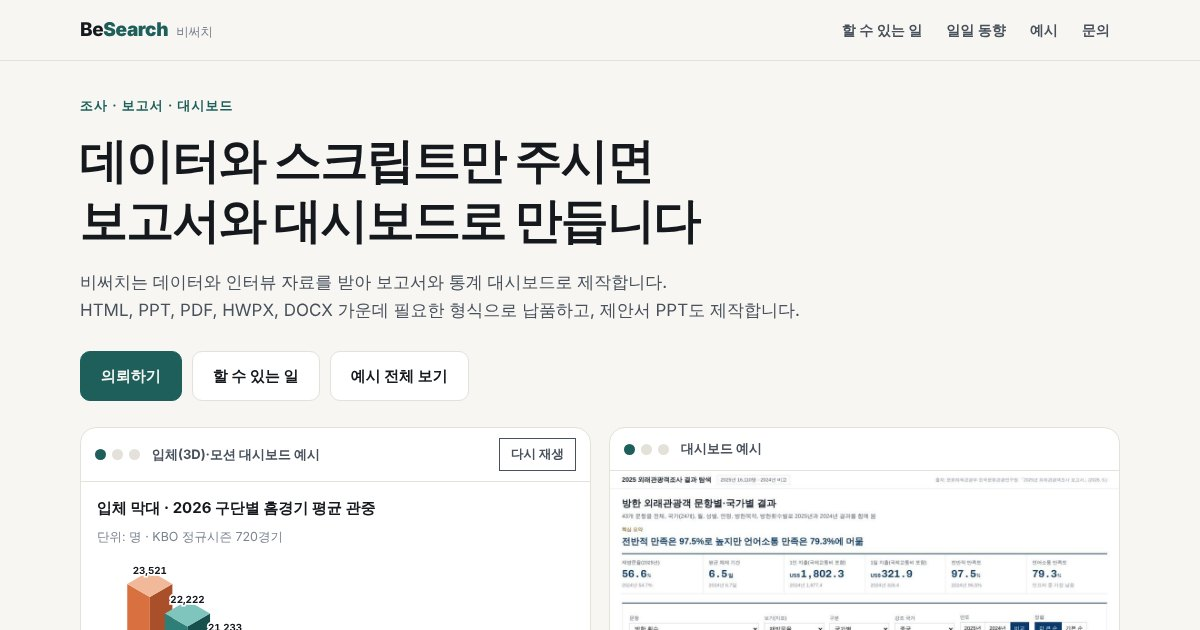
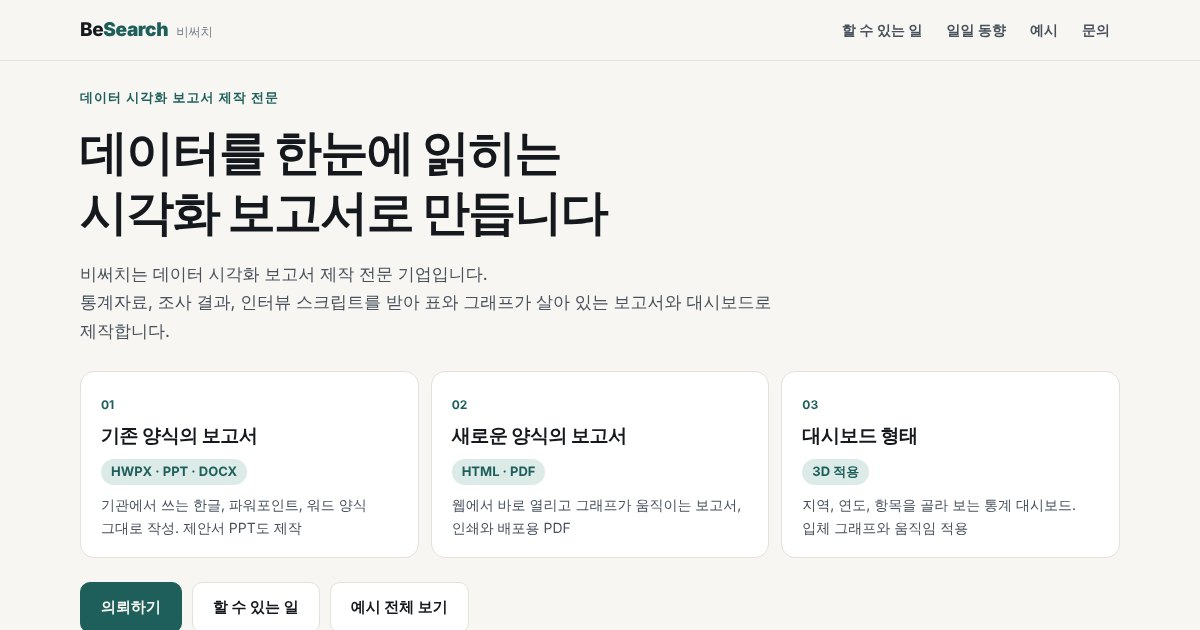
데이터 시각화 보고서 제작 전문으로 소개 개편(첫 화면, 회사 소개, 공유 미리보기)
Claude-Session: https://claude.ai/code/session_01KSbG1FWzM5tJqa3JmCj8ps

diff --git a/index.html b/index.html
@@ -3,12 +3,12 @@
 <head>
 <meta charset="UTF-8">
 <meta name="viewport" content="width=device-width,initial-scale=1">
-<title>비써치 BeSearch | 조사·데이터 분석</title>
-<meta name="description" content="데이터와 인터뷰 스크립트를 받아 보고서와 통계 대시보드로 제작합니다. HTML, PPT, PDF, HWPX, DOCX 납품, 제안서 PPT 제작.">
+<title>비써치 BeSearch | 데이터 시각화 보고서 제작</title>
+<meta name="description" content="데이터 시각화 보고서 제작 전문 기업. 기존 양식 보고서(HWPX·PPT), 새로운 양식 보고서(HTML·PDF), 3D 대시보드를 제작합니다.">
 <meta property="og:type" content="website">
 <meta property="og:site_name" content="비써치 BeSearch">
-<meta property="og:title" content="비써치 BeSearch | 데이터와 스크립트를 보고서와 대시보드로">
-<meta property="og:description" content="데이터와 인터뷰 스크립트를 받아 보고서와 통계 대시보드로 제작합니다.">
+<meta property="og:title" content="비써치 BeSearch | 데이터 시각화 보고서 제작 전문">
+<meta property="og:description" content="기존 양식 보고서(HWPX·PPT), 새로운 양식 보고서(HTML·PDF), 3D 대시보드를 제작합니다.">
 <meta property="og:url" content="https://besearch.co.kr/">
 <meta property="og:image" content="https://besearch.co.kr/img/og.jpg">
 <meta property="og:image:width" content="1200">
@@ -107,7 +107,7 @@ th:first-child,td:first-child{text-align:left}
 .two{display:grid;grid-template-columns:1fr 1fr;gap:16px}
 .two .proj{margin:0}
 
-.info{display:grid;grid-template-columns:120px 1fr;gap:8px 16px;font-size:15px;max-width:640px}
+.info{display:grid;grid-template-columns:150px 1fr;gap:8px 16px;font-size:15px;max-width:640px}
 .info dt{color:var(--muted);font-weight:600}
 footer{border-top:1px solid var(--line);padding:26px 0 40px;font-size:13px;color:var(--muted)}
 .gal{display:grid;grid-template-columns:repeat(3,1fr);gap:14px}
@@ -153,6 +153,12 @@ a.gc:hover{border-color:var(--acc)}
 
 .hero{padding:56px 20px 44px}
 .hero h1{font-size:clamp(30px,4.8vw,48px)}
+.pil{display:grid;grid-template-columns:repeat(3,1fr);gap:12px;margin-top:26px}
+.pil div{background:var(--card);border:1px solid var(--line);border-radius:14px;padding:18px 20px}
+.pil span{font-size:12px;font-weight:700;color:var(--acc)}
+.pil b{display:block;font-size:19px;font-weight:800;letter-spacing:-.02em;margin-top:4px}
+.pil em{display:inline-block;font-style:normal;font-size:13px;font-weight:700;color:var(--acc);background:var(--acc-s);border-radius:999px;padding:2px 10px;margin:8px 0 8px}
+.pil p{font-size:14px;color:var(--ink2);max-width:none}
 .show{display:grid;grid-template-columns:1fr 1fr;gap:18px;margin-top:40px}
 .frame{background:var(--card);border:1px solid var(--line);border-radius:16px;overflow:hidden;display:flex;flex-direction:column}
 .frame .bar{display:flex;align-items:center;gap:6px;padding:10px 14px;border-bottom:1px solid var(--line);font-size:13px;font-weight:700;color:var(--ink2)}
@@ -199,7 +205,7 @@ a.shot:hover{border-color:var(--acc)}
 .cta .btn.p{background:var(--bg);color:var(--acc)}
 .cta .btn.g{background:transparent;color:var(--bg);border-color:color-mix(in srgb,var(--bg) 55%,transparent)}
 @media (max-width:820px){
-  .show,.cap-row{grid-template-columns:1fr}
+  .show,.cap-row,.pil{grid-template-columns:1fr}
   .pj3{grid-template-columns:1fr}
   .cap-row.rev .tx{order:0}
   .cap-row{gap:18px;padding:26px 0}
@@ -247,10 +253,15 @@ a.shot:hover{border-color:var(--acc)}
 
 <main id="top">
 <div class="in hero">
-  <div class="eyebrow">조사 · 보고서 · 대시보드</div>
-  <h1>데이터와 스크립트만 주시면<br>보고서와 대시보드로 만듭니다</h1>
-  <p>비써치는 데이터와 인터뷰 자료를 받아 보고서와 통계 대시보드로 제작합니다.<br>HTML, PPT, PDF, HWPX, DOCX 가운데 필요한 형식으로 납품하고, 제안서 PPT도 제작합니다.</p>
-  <div style="display:flex;gap:10px;flex-wrap:wrap;margin-top:26px"><a class="btn p" href="contact.html">의뢰하기</a><a class="btn" href="#can">할 수 있는 일</a><a class="btn" href="examples.html">예시 전체 보기</a></div>
+  <div class="eyebrow">데이터 시각화 보고서 제작 전문</div>
+  <h1>데이터를 한눈에 읽히는<br>시각화 보고서로 만듭니다</h1>
+  <p>비써치는 데이터 시각화 보고서 제작 전문 기업입니다.<br>통계자료, 조사 결과, 인터뷰 스크립트를 받아 표와 그래프가 살아 있는 보고서와 대시보드로 제작합니다.</p>
+  <div class="pil">
+    <div><span>01</span><b>기존 양식의 보고서</b><em>HWPX · PPT · DOCX</em><p>기관에서 쓰는 한글, 파워포인트, 워드 양식 그대로 작성. 제안서 PPT도 제작</p></div>
+    <div><span>02</span><b>새로운 양식의 보고서</b><em>HTML · PDF</em><p>웹에서 바로 열리고 그래프가 움직이는 보고서, 인쇄와 배포용 PDF</p></div>
+    <div><span>03</span><b>대시보드 형태</b><em>3D 적용</em><p>지역, 연도, 항목을 골라 보는 통계 대시보드. 입체 그래프와 움직임 적용</p></div>
+  </div>
+  <div style="display:flex;gap:10px;flex-wrap:wrap;margin-top:24px"><a class="btn p" href="contact.html">의뢰하기</a><a class="btn" href="#can">할 수 있는 일</a><a class="btn" href="examples.html">예시 전체 보기</a></div>
   <div class="show">
     <div class="frame" id="carL" data-car>
       <div class="bar"><button type="button" class="dot on" data-i="0" aria-label="입체 막대 예시"></button><button type="button" class="dot" data-i="1" aria-label="지도 예시"></button><button type="button" class="dot" data-i="2" aria-label="히트맵 예시"></button><span class="ttl">입체(3D)·모션 대시보드 예시</span><button class="replay" type="button" id="isoRe" hidden>다시 재생</button></div>
@@ -417,8 +428,12 @@ a.shot:hover{border-color:var(--acc)}
 </div></section>
 
 <section id="company"><div class="in">
-  <h2>회사 정보</h2>
-  <dl class="info" style="margin-top:14px"><dt>상호</dt><dd>비써치(BeSearch)</dd><dt>업종</dt><dd>시장조사 및 여론조사업, 전자상거래 소매업, 기타 인문 및 사회과학 연구개발업</dd></dl>
+  <h2>회사 소개</h2>
+  <p class="sub" style="max-width:760px">비써치(BeSearch)는 데이터 시각화 보고서 제작 전문 기업입니다. 통계자료와 조사 결과를 표와 그래프가 살아 있는 보고서, 대시보드로 만듭니다.</p>
+  <dl class="info" style="margin-top:14px;max-width:760px">
+    <dt>기존 양식 보고서</dt><dd>HWPX, PPT, DOCX 등 기관에서 쓰는 양식 그대로 작성 (제안서 PPT 포함)</dd>
+    <dt>새로운 양식 보고서</dt><dd>HTML, PDF 등 웹에서 바로 열리는 시각화 보고서</dd>
+    <dt>대시보드</dt><dd>통계 대시보드 제작, 입체(3D) 그래프와 움직임 적용</dd><dt>상호</dt><dd>비써치(BeSearch)</dd><dt>업종</dt><dd>시장조사 및 여론조사업, 전자상거래 소매업, 기타 인문 및 사회과학 연구개발업</dd></dl>
 </div></section>
 </main>
 

diff --git a/template.html b/template.html
@@ -3,12 +3,12 @@
 <head>
 <meta charset="UTF-8">
 <meta name="viewport" content="width=device-width,initial-scale=1">
-<title>비써치 BeSearch | 조사·데이터 분석</title>
-<meta name="description" content="데이터와 인터뷰 스크립트를 받아 보고서와 통계 대시보드로 제작합니다. HTML, PPT, PDF, HWPX, DOCX 납품, 제안서 PPT 제작.">
+<title>비써치 BeSearch | 데이터 시각화 보고서 제작</title>
+<meta name="description" content="데이터 시각화 보고서 제작 전문 기업. 기존 양식 보고서(HWPX·PPT), 새로운 양식 보고서(HTML·PDF), 3D 대시보드를 제작합니다.">
 <meta property="og:type" content="website">
 <meta property="og:site_name" content="비써치 BeSearch">
-<meta property="og:title" content="비써치 BeSearch | 데이터와 스크립트를 보고서와 대시보드로">
-<meta property="og:description" content="데이터와 인터뷰 스크립트를 받아 보고서와 통계 대시보드로 제작합니다.">
+<meta property="og:title" content="비써치 BeSearch | 데이터 시각화 보고서 제작 전문">
+<meta property="og:description" content="기존 양식 보고서(HWPX·PPT), 새로운 양식 보고서(HTML·PDF), 3D 대시보드를 제작합니다.">
 <meta property="og:url" content="https://besearch.co.kr/">
 <meta property="og:image" content="https://besearch.co.kr/img/og.jpg">
 <meta property="og:image:width" content="1200">
@@ -107,7 +107,7 @@ th:first-child,td:first-child{text-align:left}
 .two{display:grid;grid-template-columns:1fr 1fr;gap:16px}
 .two .proj{margin:0}
 
-.info{display:grid;grid-template-columns:120px 1fr;gap:8px 16px;font-size:15px;max-width:640px}
+.info{display:grid;grid-template-columns:150px 1fr;gap:8px 16px;font-size:15px;max-width:640px}
 .info dt{color:var(--muted);font-weight:600}
 footer{border-top:1px solid var(--line);padding:26px 0 40px;font-size:13px;color:var(--muted)}
 .gal{display:grid;grid-template-columns:repeat(3,1fr);gap:14px}
@@ -153,6 +153,12 @@ a.gc:hover{border-color:var(--acc)}
 
 .hero{padding:56px 20px 44px}
 .hero h1{font-size:clamp(30px,4.8vw,48px)}
+.pil{display:grid;grid-template-columns:repeat(3,1fr);gap:12px;margin-top:26px}
+.pil div{background:var(--card);border:1px solid var(--line);border-radius:14px;padding:18px 20px}
+.pil span{font-size:12px;font-weight:700;color:var(--acc)}
+.pil b{display:block;font-size:19px;font-weight:800;letter-spacing:-.02em;margin-top:4px}
+.pil em{display:inline-block;font-style:normal;font-size:13px;font-weight:700;color:var(--acc);background:var(--acc-s);border-radius:999px;padding:2px 10px;margin:8px 0 8px}
+.pil p{font-size:14px;color:var(--ink2);max-width:none}
 .show{display:grid;grid-template-columns:1fr 1fr;gap:18px;margin-top:40px}
 .frame{background:var(--card);border:1px solid var(--line);border-radius:16px;overflow:hidden;display:flex;flex-direction:column}
 .frame .bar{display:flex;align-items:center;gap:6px;padding:10px 14px;border-bottom:1px solid var(--line);font-size:13px;font-weight:700;color:var(--ink2)}
@@ -199,7 +205,7 @@ a.shot:hover{border-color:var(--acc)}
 .cta .btn.p{background:var(--bg);color:var(--acc)}
 .cta .btn.g{background:transparent;color:var(--bg);border-color:color-mix(in srgb,var(--bg) 55%,transparent)}
 @media (max-width:820px){
-  .show,.cap-row{grid-template-columns:1fr}
+  .show,.cap-row,.pil{grid-template-columns:1fr}
   .pj3{grid-template-columns:1fr}
   .cap-row.rev .tx{order:0}
   .cap-row{gap:18px;padding:26px 0}
@@ -247,10 +253,15 @@ a.shot:hover{border-color:var(--acc)}
 
 <main id="top">
 <div class="in hero">
-  <div class="eyebrow">조사 · 보고서 · 대시보드</div>
-  <h1>데이터와 스크립트만 주시면<br>보고서와 대시보드로 만듭니다</h1>
-  <p>비써치는 데이터와 인터뷰 자료를 받아 보고서와 통계 대시보드로 제작합니다.<br>HTML, PPT, PDF, HWPX, DOCX 가운데 필요한 형식으로 납품하고, 제안서 PPT도 제작합니다.</p>
-  <div style="display:flex;gap:10px;flex-wrap:wrap;margin-top:26px"><a class="btn p" href="contact.html">의뢰하기</a><a class="btn" href="#can">할 수 있는 일</a><a class="btn" href="examples.html">예시 전체 보기</a></div>
+  <div class="eyebrow">데이터 시각화 보고서 제작 전문</div>
+  <h1>데이터를 한눈에 읽히는<br>시각화 보고서로 만듭니다</h1>
+  <p>비써치는 데이터 시각화 보고서 제작 전문 기업입니다.<br>통계자료, 조사 결과, 인터뷰 스크립트를 받아 표와 그래프가 살아 있는 보고서와 대시보드로 제작합니다.</p>
+  <div class="pil">
+    <div><span>01</span><b>기존 양식의 보고서</b><em>HWPX · PPT · DOCX</em><p>기관에서 쓰는 한글, 파워포인트, 워드 양식 그대로 작성. 제안서 PPT도 제작</p></div>
+    <div><span>02</span><b>새로운 양식의 보고서</b><em>HTML · PDF</em><p>웹에서 바로 열리고 그래프가 움직이는 보고서, 인쇄와 배포용 PDF</p></div>
+    <div><span>03</span><b>대시보드 형태</b><em>3D 적용</em><p>지역, 연도, 항목을 골라 보는 통계 대시보드. 입체 그래프와 움직임 적용</p></div>
+  </div>
+  <div style="display:flex;gap:10px;flex-wrap:wrap;margin-top:24px"><a class="btn p" href="contact.html">의뢰하기</a><a class="btn" href="#can">할 수 있는 일</a><a class="btn" href="examples.html">예시 전체 보기</a></div>
   <div class="show">
     <div class="frame" id="carL" data-car>
       <div class="bar"><button type="button" class="dot on" data-i="0" aria-label="입체 막대 예시"></button><button type="button" class="dot" data-i="1" aria-label="지도 예시"></button><button type="button" class="dot" data-i="2" aria-label="히트맵 예시"></button><span class="ttl">입체(3D)·모션 대시보드 예시</span><button class="replay" type="button" id="isoRe" hidden>다시 재생</button></div>
@@ -417,8 +428,12 @@ a.shot:hover{border-color:var(--acc)}
 </div></section>
 
 <section id="company"><div class="in">
-  <h2>회사 정보</h2>
-  <dl class="info" style="margin-top:14px"><dt>상호</dt><dd>비써치(BeSearch)</dd><dt>업종</dt><dd>시장조사 및 여론조사업, 전자상거래 소매업, 기타 인문 및 사회과학 연구개발업</dd></dl>
+  <h2>회사 소개</h2>
+  <p class="sub" style="max-width:760px">비써치(BeSearch)는 데이터 시각화 보고서 제작 전문 기업입니다. 통계자료와 조사 결과를 표와 그래프가 살아 있는 보고서, 대시보드로 만듭니다.</p>
+  <dl class="info" style="margin-top:14px;max-width:760px">
+    <dt>기존 양식 보고서</dt><dd>HWPX, PPT, DOCX 등 기관에서 쓰는 양식 그대로 작성 (제안서 PPT 포함)</dd>
+    <dt>새로운 양식 보고서</dt><dd>HTML, PDF 등 웹에서 바로 열리는 시각화 보고서</dd>
+    <dt>대시보드</dt><dd>통계 대시보드 제작, 입체(3D) 그래프와 움직임 적용</dd><dt>상호</dt><dd>비써치(BeSearch)</dd><dt>업종</dt><dd>시장조사 및 여론조사업, 전자상거래 소매업, 기타 인문 및 사회과학 연구개발업</dd></dl>
 </div></section>
 </main>
 

diff --git a/daily.html b/daily.html
@@ -4,11 +4,11 @@
 <meta charset="UTF-8">
 <meta name="viewport" content="width=device-width,initial-scale=1">
 <title>일일 동향 자료 | 비써치 BeSearch</title>
-<meta name="description" content="데이터와 인터뷰 스크립트를 받아 보고서와 통계 대시보드로 제작합니다. HTML, PPT, PDF, HWPX, DOCX 납품, 제안서 PPT 제작.">
+<meta name="description" content="데이터 시각화 보고서 제작 전문 기업. 기존 양식 보고서(HWPX·PPT), 새로운 양식 보고서(HTML·PDF), 3D 대시보드를 제작합니다.">
 <meta property="og:type" content="website">
 <meta property="og:site_name" content="비써치 BeSearch">
-<meta property="og:title" content="비써치 BeSearch | 데이터와 스크립트를 보고서와 대시보드로">
-<meta property="og:description" content="데이터와 인터뷰 스크립트를 받아 보고서와 통계 대시보드로 제작합니다.">
+<meta property="og:title" content="비써치 BeSearch | 데이터 시각화 보고서 제작 전문">
+<meta property="og:description" content="기존 양식 보고서(HWPX·PPT), 새로운 양식 보고서(HTML·PDF), 3D 대시보드를 제작합니다.">
 <meta property="og:url" content="https://besearch.co.kr/">
 <meta property="og:image" content="https://besearch.co.kr/img/og.jpg">
 <meta property="og:image:width" content="1200">
@@ -107,7 +107,7 @@ th:first-child,td:first-child{text-align:left}
 .two{display:grid;grid-template-columns:1fr 1fr;gap:16px}
 .two .proj{margin:0}
 
-.info{display:grid;grid-template-columns:120px 1fr;gap:8px 16px;font-size:15px;max-width:640px}
+.info{display:grid;grid-template-columns:150px 1fr;gap:8px 16px;font-size:15px;max-width:640px}
 .info dt{color:var(--muted);font-weight:600}
 footer{border-top:1px solid var(--line);padding:26px 0 40px;font-size:13px;color:var(--muted)}
 .gal{display:grid;grid-template-columns:repeat(3,1fr);gap:14px}
@@ -153,6 +153,12 @@ a.gc:hover{border-color:var(--acc)}
 
 .hero{padding:56px 20px 44px}
 .hero h1{font-size:clamp(30px,4.8vw,48px)}
+.pil{display:grid;grid-template-columns:repeat(3,1fr);gap:12px;margin-top:26px}
+.pil div{background:var(--card);border:1px solid var(--line);border-radius:14px;padding:18px 20px}
+.pil span{font-size:12px;font-weight:700;color:var(--acc)}
+.pil b{display:block;font-size:19px;font-weight:800;letter-spacing:-.02em;margin-top:4px}
+.pil em{display:inline-block;font-style:normal;font-size:13px;font-weight:700;color:var(--acc);background:var(--acc-s);border-radius:999px;padding:2px 10px;margin:8px 0 8px}
+.pil p{font-size:14px;color:var(--ink2);max-width:none}
 .show{display:grid;grid-template-columns:1fr 1fr;gap:18px;margin-top:40px}
 .frame{background:var(--card);border:1px solid var(--line);border-radius:16px;overflow:hidden;display:flex;flex-direction:column}
 .frame .bar{display:flex;align-items:center;gap:6px;padding:10px 14px;border-bottom:1px solid var(--line);font-size:13px;font-weight:700;color:var(--ink2)}
@@ -199,7 +205,7 @@ a.shot:hover{border-color:var(--acc)}
 .cta .btn.p{background:var(--bg);color:var(--acc)}
 .cta .btn.g{background:transparent;color:var(--bg);border-color:color-mix(in srgb,var(--bg) 55%,transparent)}
 @media (max-width:820px){
-  .show,.cap-row{grid-template-columns:1fr}
+  .show,.cap-row,.pil{grid-template-columns:1fr}
   .pj3{grid-template-columns:1fr}
   .cap-row.rev .tx{order:0}
   .cap-row{gap:18px;padding:26px 0}

diff --git a/contact.html b/contact.html
@@ -4,11 +4,11 @@
 <meta charset="UTF-8">
 <meta name="viewport" content="width=device-width,initial-scale=1">
 <title>문의 | 비써치 BeSearch</title>
-<meta name="description" content="데이터와 인터뷰 스크립트를 받아 보고서와 통계 대시보드로 제작합니다. HTML, PPT, PDF, HWPX, DOCX 납품, 제안서 PPT 제작.">
+<meta name="description" content="데이터 시각화 보고서 제작 전문 기업. 기존 양식 보고서(HWPX·PPT), 새로운 양식 보고서(HTML·PDF), 3D 대시보드를 제작합니다.">
 <meta property="og:type" content="website">
 <meta property="og:site_name" content="비써치 BeSearch">
-<meta property="og:title" content="비써치 BeSearch | 데이터와 스크립트를 보고서와 대시보드로">
-<meta property="og:description" content="데이터와 인터뷰 스크립트를 받아 보고서와 통계 대시보드로 제작합니다.">
+<meta property="og:title" content="비써치 BeSearch | 데이터 시각화 보고서 제작 전문">
+<meta property="og:description" content="기존 양식 보고서(HWPX·PPT), 새로운 양식 보고서(HTML·PDF), 3D 대시보드를 제작합니다.">
 <meta property="og:url" content="https://besearch.co.kr/">
 <meta property="og:image" content="https://besearch.co.kr/img/og.jpg">
 <meta property="og:image:width" content="1200">
@@ -107,7 +107,7 @@ th:first-child,td:first-child{text-align:left}
 .two{display:grid;grid-template-columns:1fr 1fr;gap:16px}
 .two .proj{margin:0}
 
-.info{display:grid;grid-template-columns:120px 1fr;gap:8px 16px;font-size:15px;max-width:640px}
+.info{display:grid;grid-template-columns:150px 1fr;gap:8px 16px;font-size:15px;max-width:640px}
 .info dt{color:var(--muted);font-weight:600}
 footer{border-top:1px solid var(--line);padding:26px 0 40px;font-size:13px;color:var(--muted)}
 .gal{display:grid;grid-template-columns:repeat(3,1fr);gap:14px}
@@ -153,6 +153,12 @@ a.gc:hover{border-color:var(--acc)}
 
 .hero{padding:56px 20px 44px}
 .hero h1{font-size:clamp(30px,4.8vw,48px)}
+.pil{display:grid;grid-template-columns:repeat(3,1fr);gap:12px;margin-top:26px}
+.pil div{background:var(--card);border:1px solid var(--line);border-radius:14px;padding:18px 20px}
+.pil span{font-size:12px;font-weight:700;color:var(--acc)}
+.pil b{display:block;font-size:19px;font-weight:800;letter-spacing:-.02em;margin-top:4px}
+.pil em{display:inline-block;font-style:normal;font-size:13px;font-weight:700;color:var(--acc);background:var(--acc-s);border-radius:999px;padding:2px 10px;margin:8px 0 8px}
+.pil p{font-size:14px;color:var(--ink2);max-width:none}
 .show{display:grid;grid-template-columns:1fr 1fr;gap:18px;margin-top:40px}
 .frame{background:var(--card);border:1px solid var(--line);border-radius:16px;overflow:hidden;display:flex;flex-direction:column}
 .frame .bar{display:flex;align-items:center;gap:6px;padding:10px 14px;border-bottom:1px solid var(--line);font-size:13px;font-weight:700;color:var(--ink2)}
@@ -199,7 +205,7 @@ a.shot:hover{border-color:var(--acc)}
 .cta .btn.p{background:var(--bg);color:var(--acc)}
 .cta .btn.g{background:transparent;color:var(--bg);border-color:color-mix(in srgb,var(--bg) 55%,transparent)}
 @media (max-width:820px){
-  .show,.cap-row{grid-template-columns:1fr}
+  .show,.cap-row,.pil{grid-template-columns:1fr}
   .pj3{grid-template-columns:1fr}
   .cap-row.rev .tx{order:0}
   .cap-row{gap:18px;padding:26px 0}

diff --git a/examples.html b/examples.html
@@ -4,11 +4,11 @@
 <meta charset="UTF-8">
 <meta name="viewport" content="width=device-width,initial-scale=1">
 <title>예시 | 비써치 BeSearch</title>
-<meta name="description" content="데이터와 인터뷰 스크립트를 받아 보고서와 통계 대시보드로 제작합니다. HTML, PPT, PDF, HWPX, DOCX 납품, 제안서 PPT 제작.">
+<meta name="description" content="데이터 시각화 보고서 제작 전문 기업. 기존 양식 보고서(HWPX·PPT), 새로운 양식 보고서(HTML·PDF), 3D 대시보드를 제작합니다.">
 <meta property="og:type" content="website">
 <meta property="og:site_name" content="비써치 BeSearch">
-<meta property="og:title" content="비써치 BeSearch | 데이터와 스크립트를 보고서와 대시보드로">
-<meta property="og:description" content="데이터와 인터뷰 스크립트를 받아 보고서와 통계 대시보드로 제작합니다.">
+<meta property="og:title" content="비써치 BeSearch | 데이터 시각화 보고서 제작 전문">
+<meta property="og:description" content="기존 양식 보고서(HWPX·PPT), 새로운 양식 보고서(HTML·PDF), 3D 대시보드를 제작합니다.">
 <meta property="og:url" content="https://besearch.co.kr/">
 <meta property="og:image" content="https://besearch.co.kr/img/og.jpg">
 <meta property="og:image:width" content="1200">
@@ -107,7 +107,7 @@ th:first-child,td:first-child{text-align:left}
 .two{display:grid;grid-template-columns:1fr 1fr;gap:16px}
 .two .proj{margin:0}
 
-.info{display:grid;grid-template-columns:120px 1fr;gap:8px 16px;font-size:15px;max-width:640px}
+.info{display:grid;grid-template-columns:150px 1fr;gap:8px 16px;font-size:15px;max-width:640px}
 .info dt{color:var(--muted);font-weight:600}
 footer{border-top:1px solid var(--line);padding:26px 0 40px;font-size:13px;color:var(--muted)}
 .gal{display:grid;grid-template-columns:repeat(3,1fr);gap:14px}
@@ -153,6 +153,12 @@ a.gc:hover{border-color:var(--acc)}
 
 .hero{padding:56px 20px 44px}
 .hero h1{font-size:clamp(30px,4.8vw,48px)}
+.pil{display:grid;grid-template-columns:repeat(3,1fr);gap:12px;margin-top:26px}
+.pil div{background:var(--card);border:1px solid var(--line);border-radius:14px;padding:18px 20px}
+.pil span{font-size:12px;font-weight:700;color:var(--acc)}
+.pil b{display:block;font-size:19px;font-weight:800;letter-spacing:-.02em;margin-top:4px}
+.pil em{display:inline-block;font-style:normal;font-size:13px;font-weight:700;color:var(--acc);background:var(--acc-s);border-radius:999px;padding:2px 10px;margin:8px 0 8px}
+.pil p{font-size:14px;color:var(--ink2);max-width:none}
 .show{display:grid;grid-template-columns:1fr 1fr;gap:18px;margin-top:40px}
 .frame{background:var(--card);border:1px solid var(--line);border-radius:16px;overflow:hidden;display:flex;flex-direction:column}
 .frame .bar{display:flex;align-items:center;gap:6px;padding:10px 14px;border-bottom:1px solid var(--line);font-size:13px;font-weight:700;color:var(--ink2)}
@@ -199,7 +205,7 @@ a.shot:hover{border-color:var(--acc)}
 .cta .btn.p{background:var(--bg);color:var(--acc)}
 .cta .btn.g{background:transparent;color:var(--bg);border-color:color-mix(in srgb,var(--bg) 55%,transparent)}
 @media (max-width:820px){
-  .show,.cap-row{grid-template-columns:1fr}
+  .show,.cap-row,.pil{grid-template-columns:1fr}
   .pj3{grid-template-columns:1fr}
   .cap-row.rev .tx{order:0}
   .cap-row{gap:18px;padding:26px 0}

diff --git a/build_pages.py b/build_pages.py
@@ -9,7 +9,7 @@ exec(open('build.py',encoding='utf8').read())
 # ---------- 공통 머리/꼬리 ----------
 HEAD=t[:t.index('<main id="top">')]; TAIL=t[t.index('<footer>'):]
 def page(title,body):
-    h=HEAD.replace('<title>비써치 BeSearch | 조사·데이터 분석</title>',f'<title>{title} | 비써치 BeSearch</title>')
+    h=HEAD.replace('<title>비써치 BeSearch | 데이터 시각화 보고서 제작</title>',f'<title>{title} | 비써치 BeSearch</title>')
     return h+'<main>'+body+'</main>\n\n'+TAIL
 
 # ---------- 예시 모음 ----------
